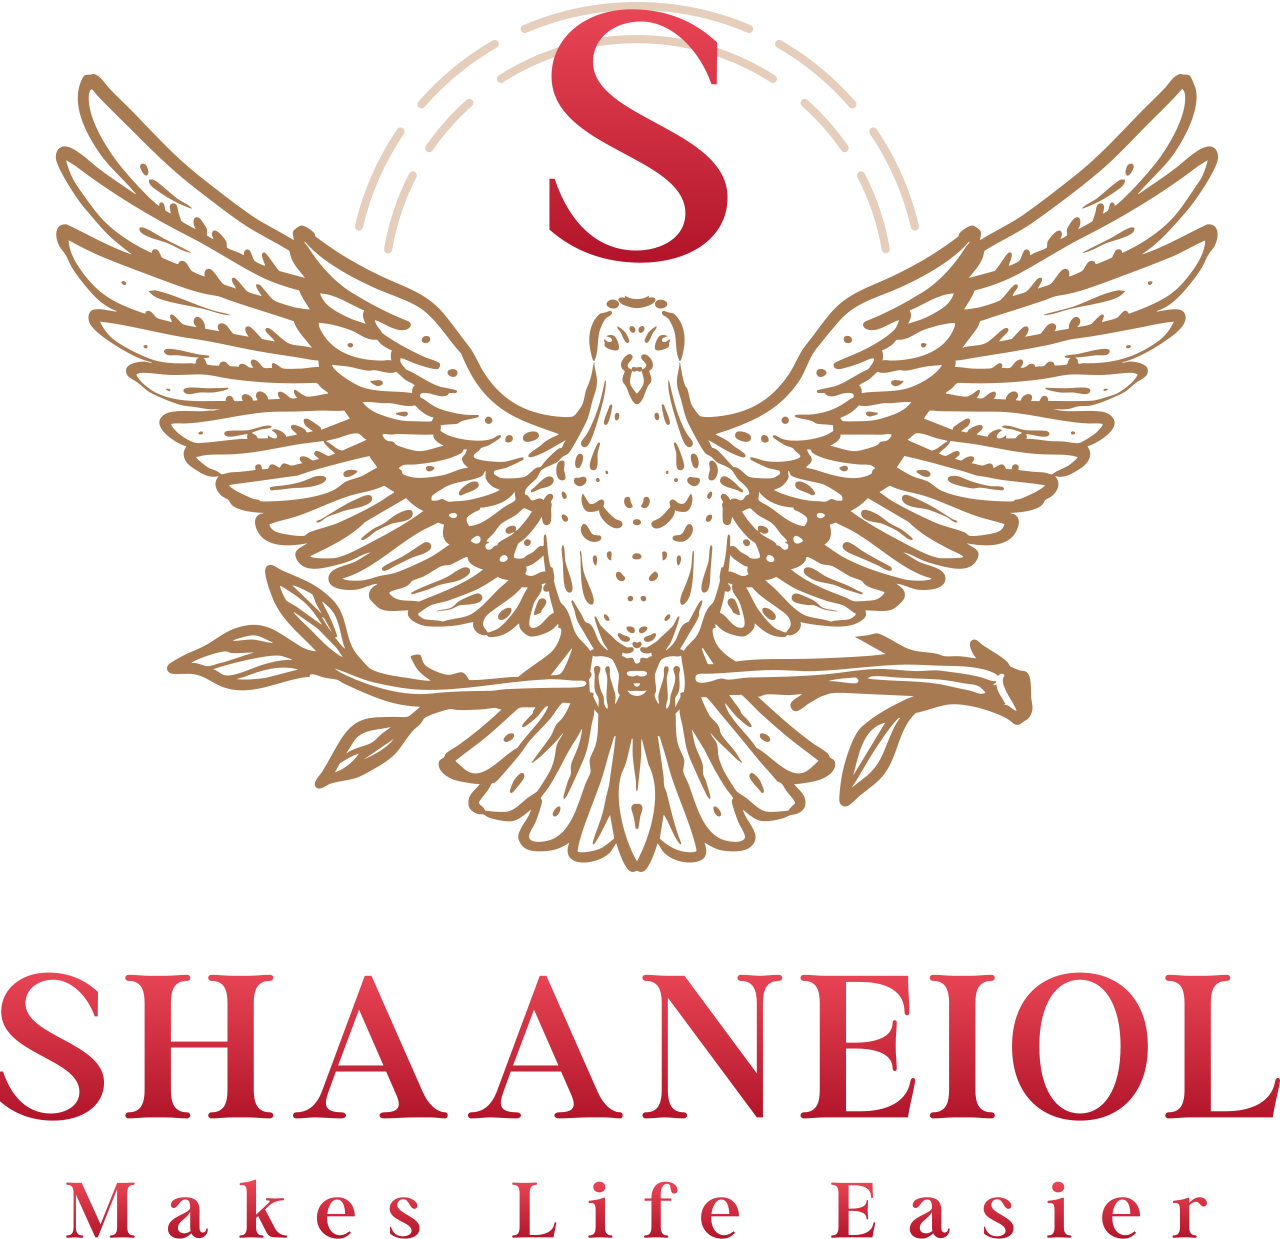
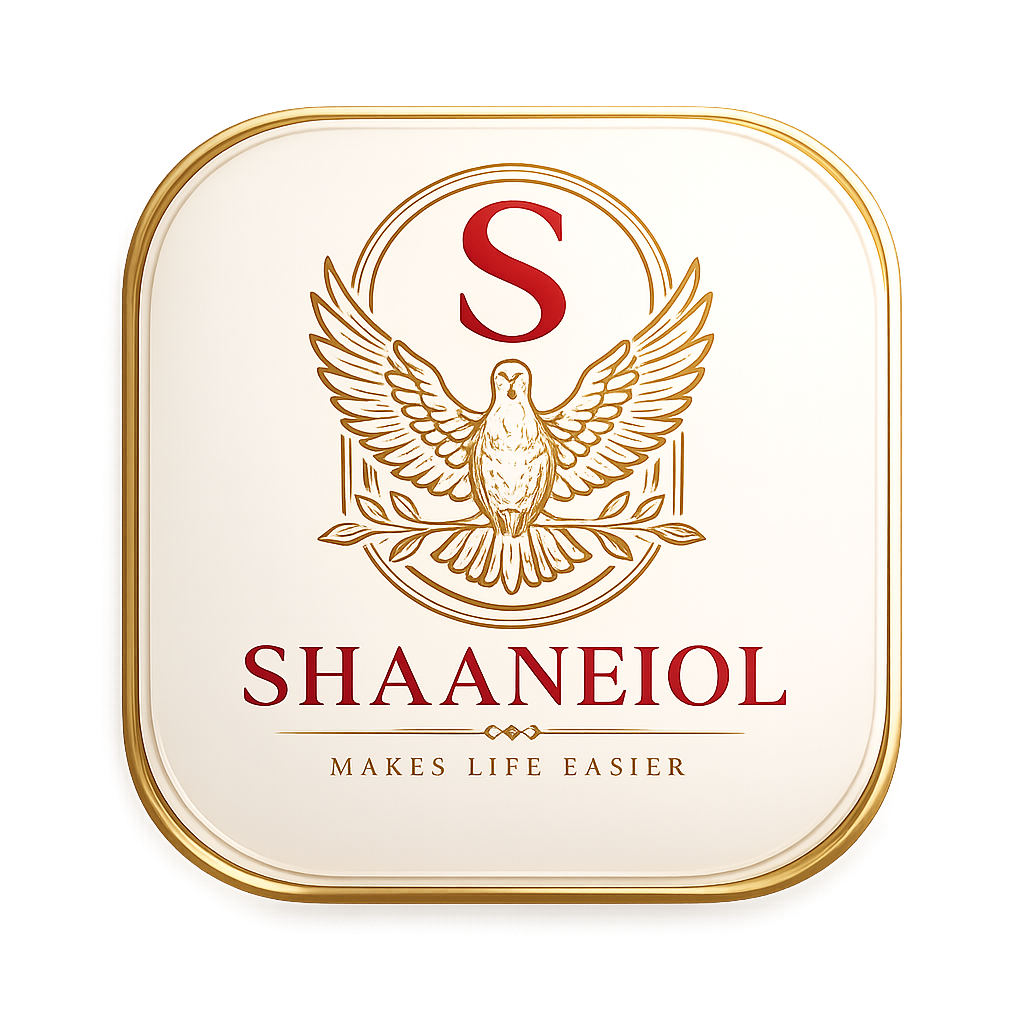
Refactor code structure for improved readability and maintainability
Refactor code structure for improved readability and maintainability

diff --git a/src/screens/SplashScreen.tsx b/src/screens/SplashScreen.tsx
@@ -50,7 +50,7 @@ export default function SplashScreen({ onFinish }: Props) {
 
       <View style={styles.centerContent}>
         <Image
-          source={require('../../assets/splash-icon.png')}
+          source={require('../../assets/splash.png')}
           style={styles.logo}
           resizeMode="contain"
         />